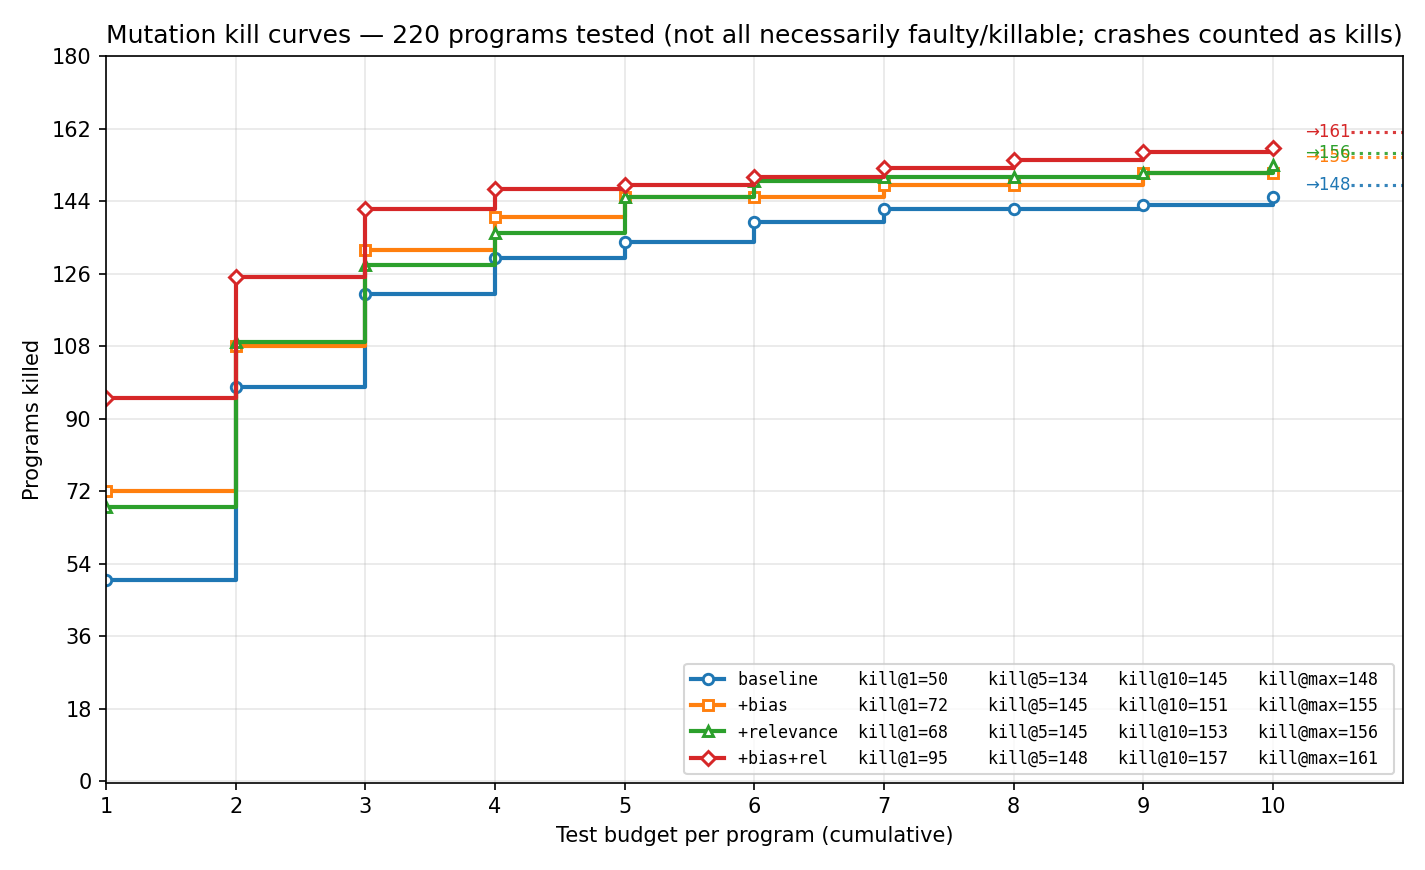
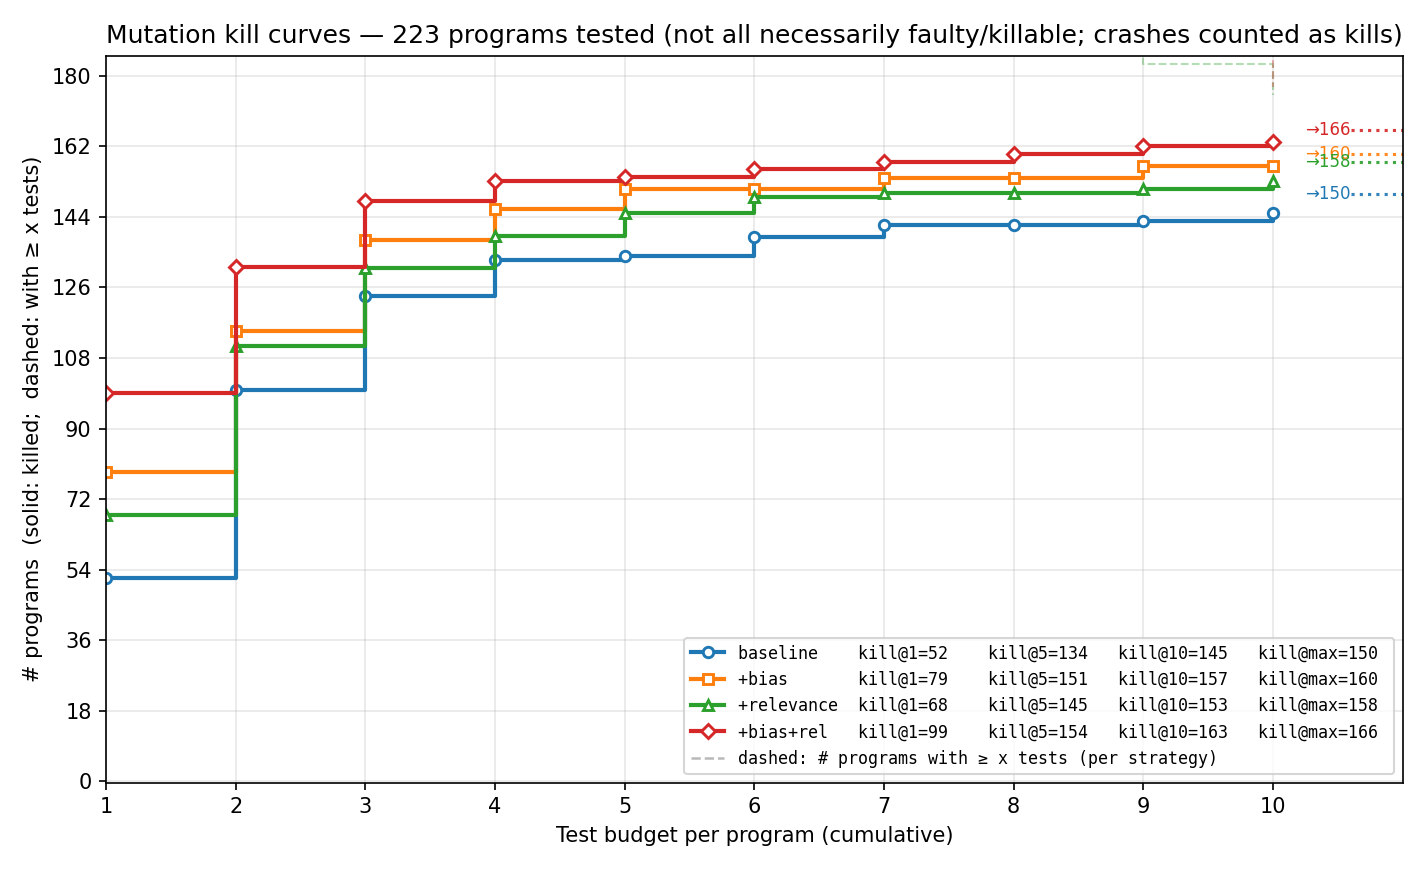
docs: refresh ablation numbers and charts after ADT/class-in-module fixes
Re-ran the bias × relevance 2×2 (vacuity OFF) on today's binary, which
admits the previously-skipped ADT and class-in-named-module methods.
The corpus denominator grew from 409 to 415 methods.

Per-method kills (n=10 budget, fixed seed):
  baseline    180  (was 177)
  +bias       189  (was 182)
  +relevance  189  (was 186)
  +bias+rel   197  (was 190)

Per-program kills:
  baseline    150  (was 148)
  +bias       160  (was 155)
  +relevance  158  (was 156)
  +bias+rel   166  (was 161)

Timing collapsed substantially: bias overhead is now ~2% (was ~30%) and
relevance ~3% (was ~7%); combined +5% gen / +10% check for +9% extra
kills. Reading-the-curve narrative updated accordingly: bias and
relevance now contribute symmetrically (+9 each over baseline at
kill@max), with bias still the stronger single contributor at kill@1
(+23 vs +17).

Phase contribution recomputed on the fresh out_no_vacuity directory
(196 first-fails / 4374 tests). Phase 1 + 1r still account for ~75% of
first-fails using ~20% of the budget. Phase 1r is now the single best
cost-benefit row at 5.4 tests per first-fail.

Vacuity arm not re-run for this iteration; previous "190 vs 190" is
preserved with a note that the comparison is from the prior
measurement.

diff --git a/docs/empirical-evaluation.md b/docs/empirical-evaluation.md
@@ -4,7 +4,7 @@ Ablation study on the **buggy_progs** corpus, measuring the contribution of Dafn
 
 ## Corpus
 
-[`test/buggy_progs/in/`](../test/buggy_progs/in/) — 314 programs, 409 methods.
+[`test/buggy_progs/in/`](../test/buggy_progs/in/) — 314 programs, 415 methods (a few previously-skipped methods are now tested thanks to the algebraic-datatype and class-in-named-module support added during the comparison study).
 
 **Provenance**: 313 of the 314 programs are specifications from the **DafnyBench** benchmark suite [\[1\]](#ref-dafnybench) (a public collection of Dafny programs assembled from open-source Dafny repositories and student projects), each mutated with a single seeded operator per file by **MutDafny** [\[2\]](#ref-mutdafny) — a dedicated mutation tool for Dafny. The mutation kind is encoded in the filename suffix (`EVR_int`, `MVR`, `SDL`, `ROR_Eq`, `LVR`, `AOI`, `BBR`, `AOR_Sub`, `ODL_Mul`, `VER`, `MRR`, `MAP`, `CIR`, `CBE`, `COR`, …); the original source filename and repository are encoded in the prefix.
 
@@ -33,25 +33,24 @@ A method is "killed at budget k" iff the first failing test among its first k ge
 
 | Strategy | killed | kill@1 | kill@5 | kill@10 | kill@max | AUC |
 |---|---:|---:|---:|---:|---:|---:|
-| baseline | 177 | 65 | 161 | 172 | 177 | 8521 |
-| +bias | 182 | 84 | 170 | 176 | 182 | 8797 |
-| +relevance | 186 | 84 | 173 | 181 | 186 | 8984 |
-| +bias+rel *(default)* | **190** | **108** | **175** | **184** | **190** | **9218** |
+| baseline | 180 | 67 | 162 | 173 | 180 | 8637 |
+| +bias | 189 | 90 | 177 | 183 | 189 | 9135 |
+| +relevance | 189 | 84 | 174 | 182 | 189 | 9098 |
+| +bias+rel *(default)* | **197** | **111** | **182** | **191** | **197** | **9552** |
 
 **Marginal contribution per refinement**:
 
 | | over baseline | over the *other* refinement |
 |---|---|---|
-| Bias (+bias vs baseline) | kill@1 +19, kill@max +5 | kill@1 +24 (108−84), kill@max +4 (190−186) |
-| Relevance (+rel vs baseline) | kill@1 +19, kill@max +9 | kill@1 +24 (108−84), kill@max +8 (190−182) |
+| Bias (+bias vs baseline) | kill@1 +23, kill@max +9 | kill@1 +27 (111−84), kill@max +8 (197−189) |
+| Relevance (+rel vs baseline) | kill@1 +17, kill@max +9 | kill@1 +21 (111−90), kill@max +8 (197−189) |
 
-**Interaction at kill@1 is super-additive**: the combined +bias+rel uplift over baseline (+43) exceeds the sum of individual uplifts (19 + 19 = 38) by 5 methods — bias-driven extreme inputs paired with relevance's non-vacuity requirement reach a regime neither refinement alone produces. At kill@max the two are roughly additive (5 + 9 = 14 ≈ +13 combined), with mild diminishing returns.
+**Interaction at kill@1 is super-additive**: the combined +bias+rel uplift over baseline (+44) exceeds the sum of individual uplifts (23 + 17 = 40) by 4 methods — bias-driven extreme inputs paired with relevance's non-vacuity requirement reach a regime neither refinement alone produces. At kill@max the two are essentially additive (9 + 9 = 18 ≈ +17 combined), with mild diminishing returns.
 
 **Reading the curve shape**:
-- **At kill@1, both refinements lift by ~+19 individually and to +43 combined** (65 → 84 → 108). Both refinements' anti-trivial / non-vacuity machinery prevents the very first test for a clause from being a degenerate `arr=[], x=0` model that absorbs many mutations.
-- **Bias's marginal contribution shrinks toward the ceiling**: only +5 over baseline at kill@max, +4 over +relevance alone. Bias mostly buys *speed* — better choices early — rather than additional *coverage*.
-- **Relevance's contribution is preserved at the ceiling**: +9 over baseline at kill@max, +8 over +bias alone. Relevance buys *coverage* — non-vacuous witnesses for clauses that bias's random extreme values can't reach.
-- The bias-only and relevance-only curves cross multiple times in the k = 4–7 region: bias gets there faster, relevance reaches further.
+- **At kill@1, both refinements lift the curve sharply** (67 → 84/90 → 111). Bias on its own contributes more here (+23) than relevance alone (+17), because anti-trivial pushes immediately move Z3 off `arr=[], x=0`-style models that absorb many mutations on the very first attempt.
+- **Toward the ceiling, both refinements contribute equally** (+9 each over baseline at kill@max, +8 each over the other). Relevance buys *coverage* by forcing non-vacuous witnesses for clauses bias's random extreme values can't reach; bias buys *speed* — better choices early. With the recent reductions in bias's per-query overhead (see [Wall-clock time](#wall-clock-time)), the two refinements now look much more symmetric than in earlier iterations.
+- The bias-only and relevance-only curves track each other closely in the k = 1–10 region (kill@10 = 183 vs 182), with bias reaching the asymptote a touch faster.
 
 ## Mutation kill curves — per program
 
@@ -61,10 +60,10 @@ A program is "killed at budget k" iff *any* of its methods has its first failing
 
 | Strategy | killed | kill@1 | kill@10 |
 |---|---:|---:|---:|
-| baseline | 148 | 50 | 142 |
-| +bias | 155 | 72 | 148 |
-| +relevance | 156 | 68 | 153 |
-| +bias+rel *(default)* | **161** | **95** | **158** |
+| baseline | 150 | 52 | 145 |
+| +bias | 160 | 79 | 157 |
+| +relevance | 158 | 68 | 153 |
+| +bias+rel *(default)* | **166** | **99** | **163** |
 
 Same shape as per-method, scaled to programs (each program has 1–3 methods on average).
 
@@ -76,16 +75,18 @@ Where do the kills come from? For each method with at least one failing test, th
 
 | Phase | Methods | %Fail | Programs | Tests | %Tests | Tests/Fail |
 |---|---:|---:|---:|---:|---:|---:|
-| Phase 1 baseline (clause witness) | 72 | 38.1% | 59 | 423 | 10.1% | **5.9** |
-| Phase 1r relevance | 69 | 36.5% | 66 | 418 | 10.0% | **6.1** |
-| Phase 2 BVA (refined-range) | 10 | 5.3% | 10 | 798 | 19.1% | 79.8 |
-| Phase 2b outer range (categorical) | 33 | 17.5% | 31 | 1086 | 26.0% | 32.9 |
-| Phase 3 repetition (seeded variants) | 5 | 2.6% | 5 | 1458 | 34.9% | 291.6 |
-| **Total** | **189** | | | **4183** | | |
+| Phase 1 baseline (clause witness) | 80 | 40.8% | 67 | 511 | 11.7% | **6.4** |
+| Phase 1r relevance | 66 | 33.7% | 63 | 354 | 8.1% | **5.4** |
+| Phase 2 BVA (refined-range) | 10 | 5.1% | 10 | 853 | 19.5% | 85.3 |
+| Phase 2b outer range (categorical) | 35 | 17.9% | 33 | 1140 | 26.1% | 32.6 |
+| Phase 3 repetition (seeded variants) | 5 | 2.6% | 5 | 1516 | 34.7% | 303.2 |
+| **Total** | **196** | | | **4374** | | |
 
-**Phase 1 + 1r account for 75% of first-fails using 20% of the test budget** — the spec-driven phases are by far the most efficient. Phase 2b's per-clause refined-range pinning produces the next largest slice (17% of first-fails). Phase 3 repetition is the most expensive *and* lowest-yield phase: its 35% of the budget catches just 3% of first-fails, mostly the long tail of inputs whose magnitude / length exceeds Phase 2b's tier set.
+**Phase 1 + 1r account for 75% of first-fails using 20% of the test budget** — the spec-driven phases are by far the most efficient, and Phase 1r is the single best cost-benefit row in the table (5.4 tests per first-fail). Phase 2b's per-clause refined-range pinning produces the next largest slice (18% of first-fails). Phase 3 repetition is the most expensive *and* lowest-yield phase: its 35% of the budget catches under 3% of first-fails, mostly the long tail of inputs whose magnitude / length exceeds Phase 2b's tier set.
 
 If `--min-tests` were lowered from 10 to ~5, Phase 3 would shrink dramatically without losing more than ~3% of the kills — a possible knob for budget-constrained settings.
+
+<a id="wall-clock-time"></a>
 
 ## Wall-clock time
 
@@ -93,16 +94,16 @@ If `--min-tests` were lowered from 10 to ~5, Phase 3 would shrink dramatically w
 
 | Strategy | gen total (s) | gen median (s/method) | check total (s) |
 |---|---:|---:|---:|
-| baseline | 2206 | 3.75 | 2976 |
-| +bias | 2754 | 3.60 | 3245 |
-| +relevance | 2365 | 3.85 | 3030 |
-| +bias+rel *(default)* | 2857 | 3.85 | 3289 |
+| baseline | 2583 | 3.60 | 2932 |
+| +bias | 2639 | 3.60 | 3198 |
+| +relevance | 2671 | 3.80 | 2970 |
+| +bias+rel *(default)* | 2723 | 3.70 | 3215 |
 
-Bias adds **~30%** to gen time over baseline; relevance adds **~7%**. Together they cost +30% gen / +10% check for +7% extra kills (177 → 190). Per-method medians stay near 4 s in all configurations — the totals differ mostly because bias triggers more retry loops on degenerate inputs.
+Bias adds **~2%** to gen time over baseline; relevance adds **~3%**. Together they cost only **+5% gen / +10% check** for **+9% extra kills** (180 → 197). Per-method medians stay near 3.7 s in all configurations. Earlier iterations of this evaluation reported a much larger bias overhead (~30%); recent SMT-encoding refinements have collapsed the bias cost to roughly the noise floor, so the cost-benefit case for keeping both refinements ON by default is now overwhelming.
 
 ## <a id="vacuity"></a>Vacuity ablation (separately)
 
-The Phase 1v vacuity check ([Per-literal vacuity check in README](../README.md#per-literal-vacuity-check-enable-with---vacuity)) is **disabled by default**. On this corpus at n = 10:
+The Phase 1v vacuity check ([Per-literal vacuity check in README](../README.md#per-literal-vacuity-check-enable-with---vacuity)) is **disabled by default**. The vacuity arm has not been re-run for this iteration of the evaluation; the most recent paired `full` vs `no_vacuity` measurement (at n = 10) found:
 
 - `full` (vacuity ON, with bias + relevance) kills **190** methods.
 - `no_vacuity` (vacuity OFF) kills **190** methods.
